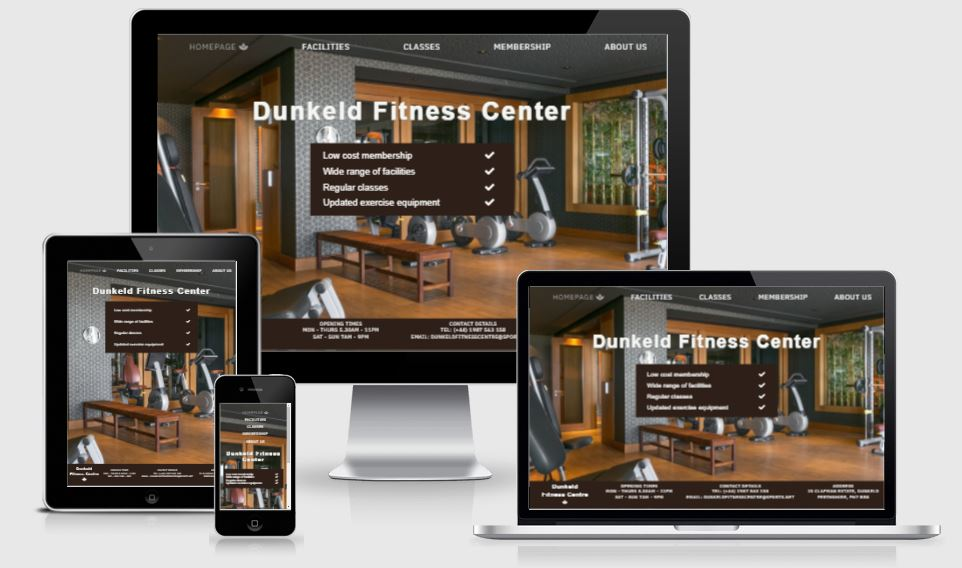
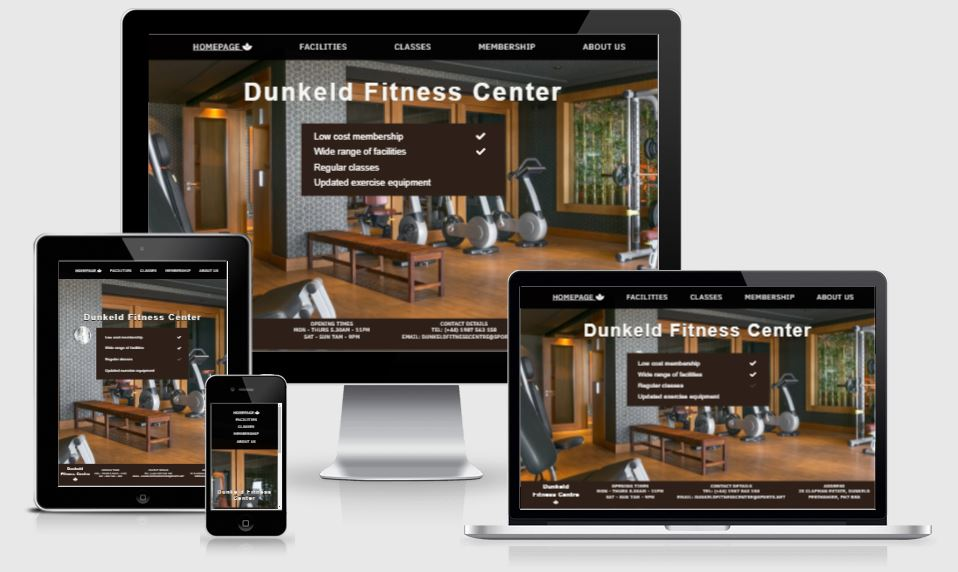
Remove indidivual ids for nav backgrounds as all navs have same colour now

diff --git a/assets/css/style.css b/assets/css/style.css
@@ -35,6 +35,7 @@
         width: 100%;
         top: 0;
         opacity: 0.95;
+        background-color: black;
     }
       
     .nav-menu a {
@@ -138,10 +139,6 @@
         background-image: url('../images/main-image.jpg');
         height:100%;
         /* max-width: 100%; */
-    }
-
-    #index-nav-background{
-        background-color: rgb(0, 0, 0);
     }
 
     #index-content{
@@ -258,12 +255,7 @@
         background-repeat: no-repeat;
         background-position: center;
         background-size: cover;
-        /* opacity: 0.9;  */
         height: 100%; 
-    }
-
-    #facilities-nav-background{
-        background-color: black;
     }
 
     .facilities-divs{
@@ -371,10 +363,6 @@
         min-height: 100%;
     }
 
-    #classes-nav-background {
-        background-color:black;
-    }
-
     #classes-footer h2{
         font-size: 20px;
         color: white;
@@ -408,7 +396,6 @@
         margin: auto;
         margin-top: 50px;
         padding-bottom: 100px;
-        /* margin-bottom: 400px; */
     }
     
     #gallery > img {
@@ -461,10 +448,6 @@
         height: 1000px;
     }
 
-    #membership-nav-background{
-        background-color:black;
-    }
-    
     .membership-footer {
         background-color: rgb(41, 41, 43);
     }
@@ -516,7 +499,6 @@
     #form-div{
         width: 65%;
         height: 900px;
-        /* background-color: white; */
         margin: 0 auto;
         padding-top: 30px;  
     }
@@ -528,7 +510,6 @@
         width: 70%;
         background-color:white;
         color: rgb(0, 0, 0);
-        /* line-height: 60px; */
         border: solid black 1px;
     }
 
@@ -594,10 +575,6 @@
     #contact-image{
         background-image: url('../images/contactbackground.jpg');
         min-height: 100vh;        
-    }
-
-    #contact-nav-background {
-        background-color: black;
     }
 
     #contact-content{

diff --git a/classes.html b/classes.html
@@ -19,7 +19,7 @@
         <section class="main-image" id="classes-image">
 
             <!-- navigation bar at top of page -->
-            <div class="nav-background" id="classes-nav-background">
+            <div class="nav-background">
                 <nav>
                     <ul class="nav-menu">
                         <li><a href="index.html">Homepage <i class="fas fa-spa"></i></a></li>

diff --git a/membership.html b/membership.html
@@ -18,7 +18,7 @@
     <section class="main-image" id="membership-image">
 
         <!-- navigation bar at top of page -->
-        <div class="nav-background" id="membership-nav-background">
+        <div class="nav-background">
             <nav>
                 <ul class="nav-menu">
                     <li><a href="index.html">Homepage <i class="fas fa-spa"></i></a></li>

diff --git a/facilities.html b/facilities.html
@@ -17,7 +17,7 @@
 <body class="main-image" id="facilities-image">
 
     <!-- navigation bar at top of page -->
-    <div class="nav-background" id="facilities-nav-background">
+    <div class="nav-background">
         <nav>
             <ul class="nav-menu">
                 <li><a href="index.html">Homepage <i class="fas fa-spa"></i></a></li>

diff --git a/about.html b/about.html
@@ -17,7 +17,7 @@
 <body class="main-image" id="contact-image">
 
     <!-- nav bar at top of page -->
-    <div class="nav-background" id="contact-nav-background">
+    <div class="nav-background">
         <nav>
             <ul class="nav-menu">
                 <li><a href="index.html">Homepage <i class="fas fa-spa"></i></a></li>

diff --git a/index.html b/index.html
@@ -17,7 +17,7 @@
 <body class="main-image" id="index-image">
 
     <!-- navigation bar at top of page -->
-    <div class="nav-background" id="index-nav-background">
+    <div class="nav-background">
         <nav>
 
             <ul class="nav-menu">

diff --git a/README.md b/README.md
@@ -351,6 +351,8 @@ All website content was written by the author.
 
 The ReadMe format was inspired by the template from Code Institute [Code Institute ReadMe](https://github.com/Code-Institute-Solutions/readme-template) as well as [Annie's Portfolio Website](https://github.com/marcin-kli/MP1/blob/Milestone-Projects/README.md).
 
+The gallery layout on the Classes page was inspired by that of the Love Running Project from Code Institute [Love Running Gallery]()
+
 Some other gym and fitness websites which inspired the author for content and style:
 * [Dunkeld House Hotel](https://www.dunkeldhousehotel.co.uk/)
 * [Pure Gym](https://www.puregym.com/)
@@ -363,6 +365,7 @@ Credits to:
 
 * Caresse Resort and Spa [Main Image](https://www.marriott.com/hotels/hotel-information/fitness-center/details/bjvlc-caresse-a-luxury-collection-resort-and-spa-bodrum/5982778/)
 * @goumbik
+* @monstera
 * @victorfreitas
 * @cottonbro
 * @elly-fairytale
